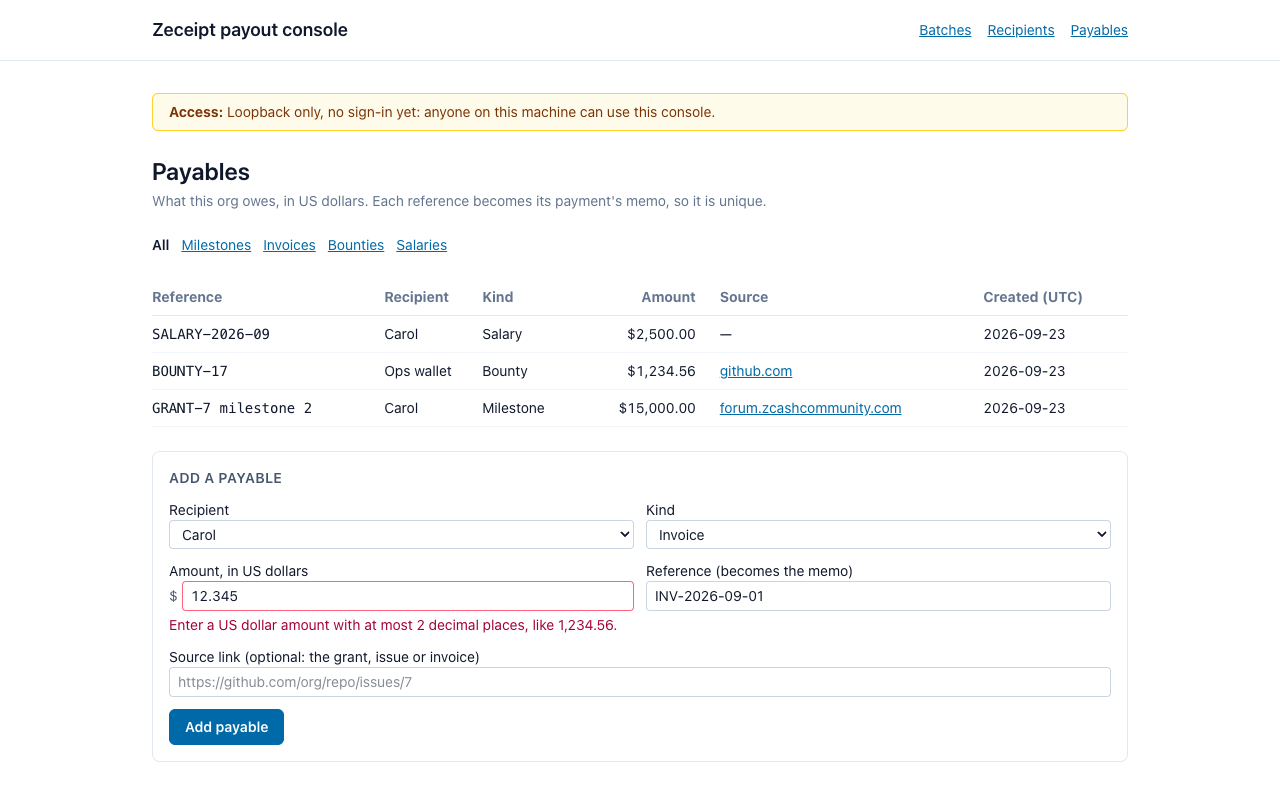
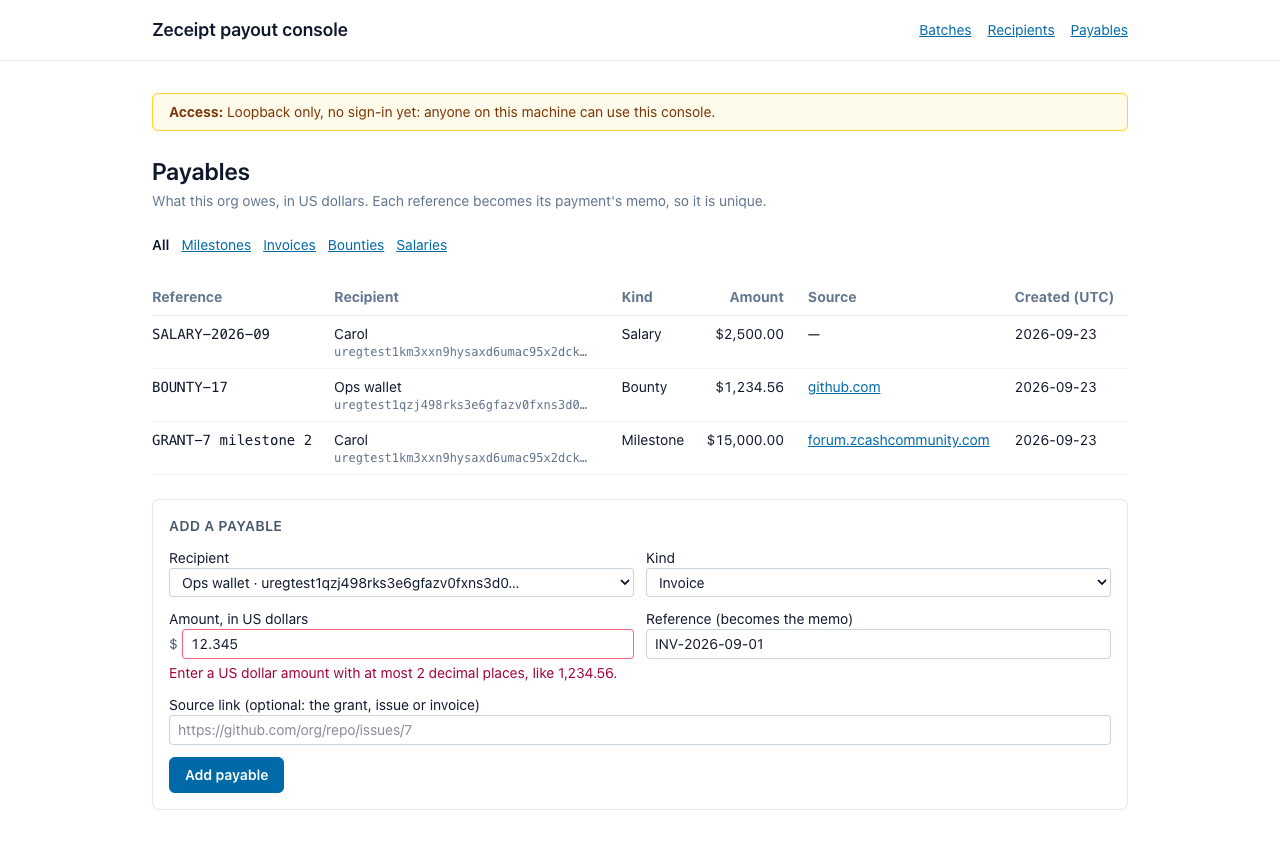
console H4 round 1: recipients told apart by address prefix; nothing pre-selected
- options and list rows show the name with the address's ZIP 316 prefix
  (display names need not be unique; a wrong pick pays the wrong address)
- the recipient select starts on 'Choose a recipient'; the form refuses no
  choice before the API (GOV.UK Select: do not pre-select answers to questions)
- hostOf falls back to the stored text; screenshot re-taken
- R79 (GOV.UK Select); design H4.1.4; review record; counts 34 + 274

diff --git a/apps/console/test/app.e2e.test.ts b/apps/console/test/app.e2e.test.ts
@@ -568,6 +568,7 @@ test("payables page through next start, posted as a browser without JavaScript: 
       return raw(s.port, "POST", "/payables", { ...headers, "content-type": m.type }, m.body);
     };
[2 lines of base64/hex data omitted]
 
     assert.ok((await raw(s.port, "GET", "/", { host: self })).body.includes('href="/payables"'), "the header links to the payables page");
     const none = await page();
@@ -577,7 +578,12 @@ test("payables page through next start, posted as a browser without JavaScript: 
     assert.equal(created.status, 201);
     const recipientId = (JSON.parse(created.body) as { id: string }).id;
     const empty = await page();
-    assert.ok(empty.includes(">Ops wallet</option>") && empty.includes('inputMode="decimal"'), "the form: recipients by name; the money input");
+    assert.ok(empty.includes(`>Ops wallet · ${UA.slice(0, 34)}…</option>`) && empty.includes('inputMode="decimal"'), "the form: recipients by name and address prefix; the money input");
+    assert.ok(/<select name="recipientId"[^>]*><option value="" selected="">Choose a recipient<\/option>/.test(empty), "nothing pre-selected: the first option, selected, is 'Choose a recipient' (review H4, GOV.UK Select)");
+    const twin = await raw(s.port, "POST", "/api/recipients", { ...same, "content-type": "application/json" }, JSON.stringify({ displayName: "Ops wallet", address: UA2 }));
+    assert.equal(twin.status, 201);
+    const twins = await page();
+    assert.ok(twins.includes(`>Ops wallet · ${UA2.slice(0, 34)}…</option>`) && twins.includes(`>Ops wallet · ${UA.slice(0, 34)}…</option>`), "two recipients with one name: two different option labels");
 
     const first = await add(empty, { recipientId, kind: "bounty", amount: "$1,234.56", reference: " BOUNTY-17 ", sourceUrl: "https://github.com/org/repo/issues/17" });
     assert.equal(first.status, 303, first.body.slice(0, 300));
@@ -586,6 +592,7 @@ test("payables page through next start, posted as a browser without JavaScript: 
     assert.equal(second.status, 303);
     const listed = await page();
     assert.ok(listed.includes("<code>BOUNTY-17</code>") && listed.includes("$1,234.56") && listed.includes("$2,500.00"), "exact dollars; the reference trimmed by the form");
+    assert.ok(listed.includes(`${UA.slice(0, 34)}…</div>`), "the list's recipient cell carries the address prefix, so the two 'Ops wallet's can be told apart");
     assert.ok(/href="https:\/\/github.com\/org\/repo\/issues\/17" rel="noopener noreferrer"[^>]*>github.com</.test(listed), "the source link, its host as the text");
     const bounties = await page("?kind=bounty");
     assert.ok(bounties.includes("BOUNTY-17") && !bounties.includes("SALARY-SEP") && bounties.includes('aria-current="page"'), "the kind filter");
@@ -603,6 +610,8 @@ test("payables page through next start, posted as a browser without JavaScript: 
     assert.ok(taken.includes("Already used by another payable") && field(taken, "reference"), "a taken reference under the reference");
     const script = shown(await add(listed, { recipientId, kind: "invoice", amount: "5", reference: "INV-JS", sourceUrl: "javascript:alert(1)" }));
     assert.ok(script.includes("source link must be an absolute https://") && field(script, "sourceUrl"), "a script link under the source");
+    const nobody = shown(await add(listed, { recipientId: "", kind: "invoice", amount: "5", reference: "INV-NOBODY", sourceUrl: "" }));
+    assert.ok(nobody.includes("Choose who this payable is owed to.") && field(nobody, "recipientId") && nobody.includes('value="INV-NOBODY"'), "no recipient chosen: under the recipient, values kept");
     const zero = shown(await add(listed, { recipientId, kind: "invoice", amount: "0", reference: "INV-ZERO", sourceUrl: "" }));
     assert.ok(zero.includes("whole US cents from 1") && field(zero, "amount"), "the API's usd_invalid shown on the amount");
     assert.equal(await count(), before, "nothing saved");

diff --git a/apps/console/app/payables/page.tsx b/apps/console/app/payables/page.tsx
@@ -2,7 +2,7 @@ import Link from "next/link";
 import { listPayables, PAYABLE_KINDS, type PayableKind } from "../../lib/data/payables.ts";
 import { listRecipients } from "../../lib/data/recipients.ts";
 import { serverContext } from "../../lib/server/context.ts";
-import { centsText } from "../../lib/view/format.ts";
+import { centsText, recipientLabel, shortAddress } from "../../lib/view/format.ts";
 import { AccessNotice } from "../components/panels.tsx";
 import { PayableForm } from "./payable-form.tsx";
 
@@ -16,8 +16,18 @@ const KIND: Record<PayableKind, { one: string; many: string }> = {
 };
 const isKind = (k: unknown): k is PayableKind => typeof k === "string" && (PAYABLE_KINDS as readonly string[]).includes(k);
 
-/** The link's host as its text: where it goes, readable (IDN hosts show as punycode, so they cannot pass for another). */
-const hostOf = (url: string) => new URL(url).host;
+/**
+ * The link's host as its text: where it goes, readable (IDN hosts show as punycode, so they cannot pass for another).
+ * A stored link always parsed when written (H3); a raw-SQL row that passes the CHECK but not the parser shows as
+ * written rather than failing the page (review H4's optional).
+ */
+function hostOf(url: string): string {
+  try {
+    return new URL(url).host;
+  } catch {
+    return url;
+  }
+}
 
 /** What the org owes (slice H4; REQ-CON-3; 04 SCR-3): the list, a kind filter (links, no JavaScript) and the add form. */
 export default async function PayablesPage({ searchParams }: { searchParams: Promise<Record<string, string | string[] | undefined>> }) {
@@ -26,7 +36,7 @@ export default async function PayablesPage({ searchParams }: { searchParams: Pro
   const filter = isKind(kind) ? kind : undefined;
   const [all, recipients] = await Promise.all([listPayables(db, config.orgId), listRecipients(db, config.orgId)]);
   const list = filter ? all.filter((p) => p.kind === filter) : all;
-  const names = new Map(recipients.map((r) => [r.id, r.displayName]));
+  const byId = new Map(recipients.map((r) => [r.id, r]));
   const tab = (k: PayableKind | undefined, label: string) => (
     <li key={k ?? "all"}>
       <Link href={k ? `/payables?kind=${k}` : "/payables"} aria-current={k === filter ? "page" : undefined} className={k === filter ? "font-semibold text-slate-900" : "text-sky-700 underline"}>
@@ -68,7 +78,11 @@ export default async function PayablesPage({ searchParams }: { searchParams: Pro
                 <td className="py-2">
                   <code>{p.reference}</code>
                 </td>
-                <td className="py-2">{names.get(p.recipientId)}</td>
+                <td className="py-2">
+                  {byId.get(p.recipientId)?.displayName}
+                  {/* Names need not be unique: the address prefix tells two "Alice"s apart (review H4). */}
+                  <div className="font-mono text-xs text-slate-500">{shortAddress(byId.get(p.recipientId)?.address ?? "")}</div>
+                </td>
                 <td className="py-2">{KIND[p.kind].one}</td>
                 <td className="py-2 pr-6 text-right tabular-nums">{centsText(p.usdCents)}</td>
                 <td className="py-2">
@@ -91,7 +105,7 @@ export default async function PayablesPage({ searchParams }: { searchParams: Pro
           Add a recipient first: a payable is owed to one. <Link href="/recipients" className="text-sky-700 underline">Go to recipients</Link>
         </p>
       ) : (
-        <PayableForm recipients={recipients.map((r) => ({ id: r.id, name: r.displayName }))} />
+        <PayableForm recipients={recipients.map((r) => ({ id: r.id, label: recipientLabel(r.displayName, r.address) }))} />
       )}
     </>
   );

diff --git a/apps/console/test/payable-form.test.ts b/apps/console/test/payable-form.test.ts
@@ -1,7 +1,8 @@
 // The payable form's pure pieces (slice H4): reading, the body, and where each API problem is shown.
 import { test } from "node:test";
 import assert from "node:assert/strict";
-import { payableBody, payableFormErrors, readPayableForm, REFERENCE_TAKEN } from "../lib/view/payable-form.ts";
+import { CHOOSE_RECIPIENT, payableBody, payableFormErrors, readPayableForm, REFERENCE_TAKEN } from "../lib/view/payable-form.ts";
+import { recipientLabel } from "../lib/view/format.ts";
 
 const form = (o: Record<string, string>) => {
   const f = new FormData();
@@ -17,9 +18,20 @@ test("read and build: reference and link trimmed, the amount converted exactly, 
   assert.deepEqual(readPayableForm(new FormData()), { recipientId: "", kind: "", amount: "", reference: "", sourceUrl: "" }, "missing fields read as empty");
 });
 
-test("an amount that is not dollars is the form's own error; the API is not called", () => {
+test("the form's own errors, together, before the API: an amount that is not dollars, and no recipient chosen (review H4)", () => {
   const r = payableBody({ recipientId: "r1", kind: "invoice", amount: "12.345", reference: "X", sourceUrl: "" });
-  assert.ok("amountError" in r && /at most 2 decimal places/.test(r.amountError));
+  assert.ok("fields" in r && /at most 2 decimal places/.test(r.fields.amount![0]) && !r.fields.recipientId);
+  const none = payableBody({ recipientId: "", kind: "invoice", amount: "5", reference: "X", sourceUrl: "" });
+  assert.deepEqual(none, { fields: { recipientId: [CHOOSE_RECIPIENT] } });
+  const both = payableBody({ recipientId: "", kind: "invoice", amount: "", reference: "X", sourceUrl: "" });
+  assert.ok("fields" in both && both.fields.recipientId && both.fields.amount, "both listed at once");
+});
+
+test("two recipients with one name are told apart by the address's ZIP 316 prefix (review H4)", () => {
[2 lines of base64/hex data omitted]
+  assert.equal(a, "Alice · uregtest1qzj498rks3e6gfazv0fxns3d0…");
+  assert.notEqual(a, b);
 });
 
 test("errors: 422 by field (usdCents shown on the amount), 409 on the reference, 400 by path, the rest on top", () => {

diff --git a/apps/console/lib/view/payable-form.ts b/apps/console/lib/view/payable-form.ts
@@ -19,6 +19,7 @@ export interface PayableFormState {
 export const EMPTY_PAYABLE: PayableFormValues = { recipientId: "", kind: "invoice", amount: "", reference: "", sourceUrl: "" };
 
 export const AMOUNT_HELP = "a US dollar amount with at most 2 decimal places, like 1,234.56";
+export const CHOOSE_RECIPIENT = "Choose who this payable is owed to.";
 export const REFERENCE_TAKEN = "Already used by another payable. References become the memo, so each must be unique.";
 
 /** The form's values: the reference and link trimmed (the page's leniency; the API takes text exactly, H3). */
@@ -30,10 +31,16 @@ export function readPayableForm(form: FormData): PayableFormValues {
   return { recipientId: get("recipientId"), kind: get("kind"), amount: get("amount"), reference: get("reference").trim(), sourceUrl: get("sourceUrl").trim() };
 }
 
-/** The API body for `POST /api/payables`, or the amount's error when it is not a dollar amount (the API is not called). */
-export function payableBody(v: PayableFormValues): { body: Record<string, string | number> } | { amountError: string } {
+/**
+ * The API body for `POST /api/payables`, or the form's own errors (the API is not called): an amount that is not
+ * dollars, and no recipient chosen (the select starts on "Choose a recipient", never on a person: review H4, GOV.UK).
+ */
+export function payableBody(v: PayableFormValues): { body: Record<string, string | number> } | { fields: PayableFormState["fields"] } {
   const usdCents = dollarsToCents(v.amount);
-  if (usdCents === undefined) return { amountError: `Enter ${AMOUNT_HELP}.` };
+  const fields: PayableFormState["fields"] = {};
+  if (v.recipientId === "") fields.recipientId = [CHOOSE_RECIPIENT];
+  if (usdCents === undefined) fields.amount = [`Enter ${AMOUNT_HELP}.`];
+  if (usdCents === undefined || Object.keys(fields).length) return { fields };
   const body: Record<string, string | number> = { recipientId: v.recipientId, kind: v.kind, usdCents, reference: v.reference };
   if (v.sourceUrl !== "") body.sourceUrl = v.sourceUrl;
   return { body };

diff --git a/apps/console/app/payables/payable-form.tsx b/apps/console/app/payables/payable-form.tsx
@@ -23,7 +23,7 @@ const input = (bad: boolean) => `w-full rounded border px-2 py-1 ${bad ? "border
  * GOV.UK's money input (R79): text with inputmode="decimal" (never type="number"), a "$" prefix hidden from screen
  * readers, and the unit in the label.
  */
-export function PayableForm({ recipients }: { recipients: { id: string; name: string }[] }) {
+export function PayableForm({ recipients }: { recipients: { id: string; label: string }[] }) {
   const [state, formAction, pending] = useActionState(createPayableAction, INITIAL);
   const v = state.values;
   const f = (k: PayableField) => state.fields[k];
@@ -35,10 +35,12 @@ export function PayableForm({ recipients }: { recipients: { id: string; name: st
       <div className="grid gap-3 sm:grid-cols-2">
         <label className="text-sm">
           Recipient
-          <select name="recipientId" defaultValue={v.recipientId || recipients[0]?.id} aria-invalid={invalid("recipientId")} className={input(!!f("recipientId"))}>
+          {/* Who gets paid is a question, not a setting: nothing pre-selected (GOV.UK Select, review H4). */}
+          <select name="recipientId" defaultValue={v.recipientId} aria-invalid={invalid("recipientId")} className={input(!!f("recipientId"))}>
+            <option value="">Choose a recipient</option>
             {recipients.map((r) => (
               <option key={r.id} value={r.id}>
-                {r.name}
+                {r.label}
               </option>
             ))}
           </select>

diff --git a/apps/console/app/payables/actions.ts b/apps/console/app/payables/actions.ts
@@ -2,7 +2,7 @@
 
 // Add a payable from the page's form (slice H4), through the same handler as POST /api/payables, so the form keeps
 // every API rule. The amount is typed in dollars and converted to cents exactly here first; an amount that is not
-// dollars never reaches the API. Unbound (E2's finding): the action takes only (prev, form).
+// dollars, or no recipient chosen, never reaches the API. Unbound (E2's finding): the action takes only (prev, form).
 
 import { redirect } from "next/navigation";
 import { createPayableFrom, payablesProblem } from "../../lib/http/payables.ts";
@@ -12,7 +12,7 @@ import { payableBody, payableFormErrors, readPayableForm, type PayableFormState 
 export async function createPayableAction(prev: PayableFormState, form: FormData): Promise<PayableFormState> {
   const values = readPayableForm(form);
   const built = payableBody(values);
-  if ("amountError" in built) return { submission: prev.submission + 1, values, top: [], fields: { amount: [built.amountError] } };
+  if ("fields" in built) return { submission: prev.submission + 1, values, top: [], fields: built.fields };
   const res = await answer(() => createPayableFrom(built.body), payablesProblem);
   if (res.status !== 201) {
     return { submission: prev.submission + 1, values, ...payableFormErrors((await res.json()) as Parameters<typeof payableFormErrors>[0]) };

diff --git a/apps/console/lib/view/format.ts b/apps/console/lib/view/format.ts
@@ -30,6 +30,14 @@ export function centsText(cents: number): string {
   return `$${dollars}.${String(cents % 100).padStart(2, "0")}`;
 }
 
+/**
+ * A recipient named so two can be told apart (review H4): display names need not be unique (H1 flags addresses, not
+ * names), so the name goes with the address's ZIP 316 prefix, "Alice · uregtest1qzj498rks3e6gfazv0fxns3d0…".
+ */
+export function recipientLabel(name: string, address: string): string {
+  return `${name} · ${shortAddress(address)}`;
+}
+
 /** Data characters kept after the separator: 25 × 5 bits = 125 bits, Zcash's classical security target (ZIP 316). */
 export const SHORT_ADDRESS_DATA_CHARS = 25;
 

diff --git a/apps/console/test/shots/payables.ts b/apps/console/test/shots/payables.ts
@@ -28,6 +28,7 @@ try {
   const page = await browser.newPage();
   await page.goto(`http://${self}/payables`);
   // The JS path: an amount with three decimals, shown under the amount with the values kept.
+  await page.selectOption("select[name=recipientId]", { index: 2 });
   await page.fill('input[name="amount"]', "12.345");
   await page.fill('input[name="reference"]', "INV-2026-09-01");
   await page.click('button:has-text("Add payable")');

diff --git a/docs/product/10_research_log.md b/docs/product/10_research_log.md
@@ -82,7 +82,7 @@ Every external fact used in `docs/product/` cites an `[Rn]` below. Dates are acc
 | R76 | ZIP 316 §"Metadata Items" and §"Encoding of Unified Addresses" (zips.z.cash/zip-0316); zkool2 `rust/src/pay/plan.rs::decompose_address` and `graphql/query.rs::prepare_send`; a live regtest Zkool (`zkool_graphql`, height 6142) | 2026-09-23 | ZIP 316: typecodes 0xC0–0xFC are Metadata Items; a Revision 0 UA "MUST NOT include any Metadata Items with a MUST-understand Typecode" (0xE0–0xFC), and a reader rejects one; others are ignored. Typecodes above 0xFC are receivers again (the official vectors include 0xFFFC). Zkool decodes a UA's receivers with `UnifiedAddress::decode`; if that fails it falls back to a structural parse and a per-pool decode, which fails too. Probed with `prepareSend` (plan only, no signing or broadcast) on an Orchard `pk_d` of 32 0xFF bytes (not canonical, so not a Pallas point): Orchard-only gives "Failed to decode orchard address: Invalid Orchard receiver in Unified Address"; with a Sapling receiver, "Failed to decode sapling address: …"; with a transparent one, "Failed to decode transparent address: …"; a valid address plans. These three messages come only from `decompose_address`, before building. Decision (review H1 round 2): the console refuses MUST-understand metadata and addresses over its 1,000-character column; it does not validate curve points (a third encoder of Orchard would be new cryptographic code for no payment safety); it adds the three messages to `PRE_BUILD_REFUSALS`, so such a payment is `payment_rejected`, nothing sent, instead of an `unknown_outcome` waiting ~50 blocks for expiry. |
 | R77 | ZIP 316 §"Encoding of Unified Addresses" (lines 658–664) and "Rationale for showing at least the first 20 characters" (lines 736–768), `zcash/zips` main; ZBooks `apps/demo/src/app/payouts/PayeesManager.tsx` (clone of R46) | 2026-09-23 | ZIP 316: an abridged UA "MUST" include "at least the first 20 characters"; 20 is "an absolute minimum" (a Mainnet `u1` prefix leaves 18 data characters, 90 bits, below Zcash's 2^125 classical target, and multi-target attacks exist), a prefix is preferred over other parts, and only *initial* characters are comparable across wallets. ZBooks shortens in the middle. Decision (review H2 round 1, which found our `slice(0, 14)…slice(-6)` showed 5 data characters of a regtest UA): `shortAddress` keeps the HRP, the separator and 25 data characters (125 bits) and no suffix, and the whole address sits in a `<details>` for keyboard and touch users; one `Address` component serves the recipients and batch pages. |
 | R78 | ZBooks `apps/demo/src/lib/types.ts` (`PayoutLineItem`), `lib/db.ts`, `app/api/payouts/import-zec-bounties/route.ts` (fresh shallow clone of `AustinChris1/ZBooks-SIWZ` at 381974d); Bill.com v3 `developer.bill.com/docs/ap-bills.md` and `reference/createbill.md` (updated 2026-03-24); Stripe `docs.stripe.com/currencies` | 2026-09-23 | ZBooks' payout lines hold `amount_zec REAL` (a binary float), `work_status` and `pay_status`, and an `external_ref` ("zec-bounties:…") with a non-unique index; its importer skips duplicates in application code. Bill.com: a bill has `vendorId`, `dueDate`, line items with `amount`, and an `invoice` with `invoiceNumber` (1–100 characters) and `invoiceDate`; duplicate invoice numbers per vendor are allowed unless `allowDuplicateInvoiceNumber: false`; `paymentStatus` (UNPAID, SCHEDULED, IN_PROCESS, PARTIALLY_PAID, PAID) is the server's. Stripe: amounts are integers in the smallest unit; USD takes at most 8 digits (99999999 = $999,999.99). Decision (slice H3): integer cents 1..99,999,999; a reference of 1–100 characters, exact (no trimming, NFC); unique per org by a database index, stricter than Bill.com because our reference becomes the memo a receipt binds; status derived (H5), not stored; the source link http(s) only, so a page can render it as a link. Added after review H3 round 1: Unicode UAX #44 (`www.unicode.org/reports/tr44/`) defines `Default_Ignorable_Code_Point` for characters "that should be ignored in rendering"; UTS #55 (`www.unicode.org/reports/tr55/`) calls them "invisible characters, which … can lead to confusion" and shows bidirectional controls reordering what is displayed; UTS #39 (confusables) is the cross-script lookalike problem. Decision: a reference refuses default-ignorable characters, every control character (C1 included, review H3 round 2), the braille blank U+2800, and every whitespace but U+0020 (so no two references look the same through invisible or odd spacing), and the source link refuses the ignorables too; cross-script confusables are a recorded residual; names and hand-typed memos get the same rule in slice H7. |
-| R79 | GOV.UK Design System, text input (`design-system.service.gov.uk/components/text-input/`, fetched 2026-09-23); ZBooks `apps/demo/src/app/payouts/[id]/PayoutRunDetail.tsx` (clone at 381974d); our E2b draft form | 2026-09-23 | GOV.UK: "Do not use `<input type=\"number\">`" unless research shows a need (a scroll can change the value, and there is "no explicit feedback" for a wrong entry); "set inputmode to decimal" for numbers with decimals; "use prefixes and suffixes to help users enter things like currencies", the prefix `aria-hidden` with the unit in the label ("What is the cost per item, in pounds?"); a restrictive input "can stop users from formatting information in their usual way", for example "commas in a large number". ZBooks' amount inputs use `inputMode="decimal"` and then `Number(amount)`, a binary float. Decision (slice H4): a text input with `inputmode="decimal"`, a "$" prefix hidden from screen readers and the label "Amount, in US dollars"; `dollarsToCents` accepts an optional "$" and thousands commas, at most 2 decimals, and converts with BigInt arithmetic (0.29 → 29 cents, where 0.29 × 100 is 28.999999999999996 in binary); errors worded as instructions ("Enter a US dollar amount …"). |
+| R79 | GOV.UK Design System, text input (`design-system.service.gov.uk/components/text-input/`, fetched 2026-09-23); ZBooks `apps/demo/src/app/payouts/[id]/PayoutRunDetail.tsx` (clone at 381974d); our E2b draft form | 2026-09-23 | GOV.UK: "Do not use `<input type=\"number\">`" unless research shows a need (a scroll can change the value, and there is "no explicit feedback" for a wrong entry); "set inputmode to decimal" for numbers with decimals; "use prefixes and suffixes to help users enter things like currencies", the prefix `aria-hidden` with the unit in the label ("What is the cost per item, in pounds?"); a restrictive input "can stop users from formatting information in their usual way", for example "commas in a large number". ZBooks' amount inputs use `inputMode="decimal"` and then `Number(amount)`, a binary float. Decision (slice H4): a text input with `inputmode="decimal"`, a "$" prefix hidden from screen readers and the label "Amount, in US dollars"; `dollarsToCents` accepts an optional "$" and thousands commas, at most 2 decimals, and converts with BigInt arithmetic (0.29 → 29 cents, where 0.29 × 100 is 28.999999999999996 in binary); errors worded as instructions ("Enter a US dollar amount …"). Added after review H4 round 1: GOV.UK Select (`design-system.service.gov.uk/components/select/`): "If you use the component for questions, you should not pre-select any of the options in case it influences users' answers"; who a payable is owed to is a question, so the select starts on "Choose a recipient" and the form refuses no choice ("Choose who this payable is owed to."); and because display names need not be unique (H1), every recipient is shown as its name with the address's ZIP 316 prefix (R77). |
 
 **Address validation (added in review H1 round 1).**
 - ZIP 316 (`zcash/zips`) requires a decoder to check the F4Jumble input length (48 to 4,194,368 bytes in Revision 0), invert F4Jumble, check and strip the 16-byte HRP padding, and parse the items. It adds: "A Revision 0 Unified Address MUST contain at least one shielded Item … Consumers MUST reject addresses that violate this restriction."

diff --git a/docs/product/09_submission_checklist.md b/docs/product/09_submission_checklist.md
@@ -29,7 +29,7 @@ Source for fields and rules: `[R1]` (form fields captured 2026-09-17 from the FA
 
 **What Zeceipt does.** Every output an organisation pays becomes a receipt: a small signed envelope holding that output's Outgoing Cipher Key. Anyone with the receipt, the recipient, an auditor or a public ledger, recovers exactly that payment (recipient, amount, memo) from the chain in their browser, without receiving a viewing key and without learning anything else about the payer. It is the outputs half of ZIP 311, implemented for the live Ironwood pool (activated July 2026, where no receipt tool existed), with a published format, deterministic test vectors, a Rust crate, a CLI, an npm verifier and a browser page. Receipts compose into audit packs whose totals are explicitly lower bounds. A thin payout console turns USD-denominated payables into two-person-approved shielded batches (via Zkool), issues receipts automatically after confirmation, and exports OpenZcash-, QuickBooks- and Xero-compatible CSVs plus per-recipient annual USD totals for 1099-NEC preparation. Verified receipts can be attested on Solana through a small program that checks the issuer's signature on-chain.
 
-**Proof.** Mainnet v6 transactions parsed and fetched over gRPC; a consensus-valid transaction on a Zebra regtest chain issued from the sender's viewing key and verified online and offline; tamper cases fail closed at a named stage; 307 automated tests (34 Rust, 273 TypeScript) including the official Orchard note-encryption vectors. [Add: testnet/mainnet receipts and the pilot organisation once funded.]
+**Proof.** Mainnet v6 transactions parsed and fetched over gRPC; a consensus-valid transaction on a Zebra regtest chain issued from the sender's viewing key and verified online and offline; tamper cases fail closed at a named stage; 308 automated tests (34 Rust, 274 TypeScript) including the official Orchard note-encryption vectors. [Add: testnet/mainnet receipts and the pilot organisation once funded.]
 
 **Market and impact.** Immediate users are Zcash grant programs and DAOs (FPF/ZCG pay 60+ milestones and 100+ bounties per quarter by hand) and Zcash-native payroll users such as Zcash Brazil on Konclave. The category is wider: Aleo, Tempo, Canton and Solana confidential balances all ship private payments in 2026 and none offers per-payment proof; under EU AMLR (2027) on-demand provability is the survival property for privacy assets. Top-down seat market ≈ $2.4–7.2M/yr (outer bound $4.7–14.0M); verification API and compliance licensing are the multiplier.
 
@@ -80,7 +80,7 @@ Six criteria (rules §8) `[R1]`:
 
 | Criterion | Where it is answered |
 |---|---|
-| Functionality — how well it works, code quality | 307 tests (34 Rust, 273 TypeScript), clippy `-D warnings`, `docs/PROOF.md` §1–§5, CI workflow, implementation review 100/100 (journal) |
+| Functionality — how well it works, code quality | 308 tests (34 Rust, 274 TypeScript), clippy `-D warnings`, `docs/PROOF.md` §1–§5, CI workflow, implementation review 100/100 (journal) |
 | Potential Impact — TAM, ecosystem effect | `03_market_competition.md` §1; `02_personas_jtbd.md` §0; `07_compliance_tax.md` §3 |
 | Novelty | first per-output receipts on Ironwood; format + vectors; `docs/PRIOR_ART.md` states exactly what is new vs Glasspane/ZIP 311 |
 | UX — using the chain for downstream users | no-login browser verification, three-part outcome, proves/does-not-prove copy (`04_ux_flows.md`, spec §4) |

diff --git a/docs/product/00_wbs.md b/docs/product/00_wbs.md
@@ -230,7 +230,7 @@ Numbering is `phase.workstream.task.subtask`. Every leaf is a level-4 item.
 - 3.4.1.4 👤 ⬜ U — testnet public-chain transaction (faucet claim, PoW/CAPTCHA gate). PROOF §4/§6.
 - 3.4.1.5 👤 ⬜ U — Fund the issuing wallet: testnet faucet + mainnet ZEC for ≥ 15 receipts (≈ 0.02 ZEC incl. fees), by 2026-09-26; without it the headline metric (`11_plan.md` §4) cannot be met.
 #### 3.4.2 Quality gates
-- 3.4.2.1 ✅ R — 34 Rust tests + 273 TypeScript console tests (and 2 opt-in regtest e2e: the library, PROOF §5c, and the app through HTTP, §5d; the 14 build-and-serve tests, one of them in Chrome, run in CI with `ZECEIPT_APP_E2E=1 ZECEIPT_BROWSER_E2E=1`; the public receipt page's 8 Chrome tests, `packages/verify/test/page.e2e.mjs`, also run in CI), clippy `-D warnings`, fmt, grep guards (key-material flags, secrets in logs), demo copy check. `.github/workflows/ci.yml`, `packages/verify/test/verify.mjs`.
+- 3.4.2.1 ✅ R — 34 Rust tests + 274 TypeScript console tests (and 2 opt-in regtest e2e: the library, PROOF §5c, and the app through HTTP, §5d; the 14 build-and-serve tests, one of them in Chrome, run in CI with `ZECEIPT_APP_E2E=1 ZECEIPT_BROWSER_E2E=1`; the public receipt page's 8 Chrome tests, `packages/verify/test/page.e2e.mjs`, also run in CI), clippy `-D warnings`, fmt, grep guards (key-material flags, secrets in logs), demo copy check. `.github/workflows/ci.yml`, `packages/verify/test/verify.mjs`.
 - 3.4.2.2 ✅ R — Independent implementation review 100/100 (five rounds). the development journal.
 - 3.4.2.3 ⬜ R — Security self-review checklist before submission (deps audit `cargo audit`, secrets scan). 0.25 pd, 2026-10-08 → 10-09.
 - 3.4.2.4 ⬜ R — Reproducible wasm build note or CI artifact; if time allows, a synthetic 20 KB v6 fixture to measure NFR-4 at its stated bound. 0.25 pd, 2026-10-08 → 10-09.
